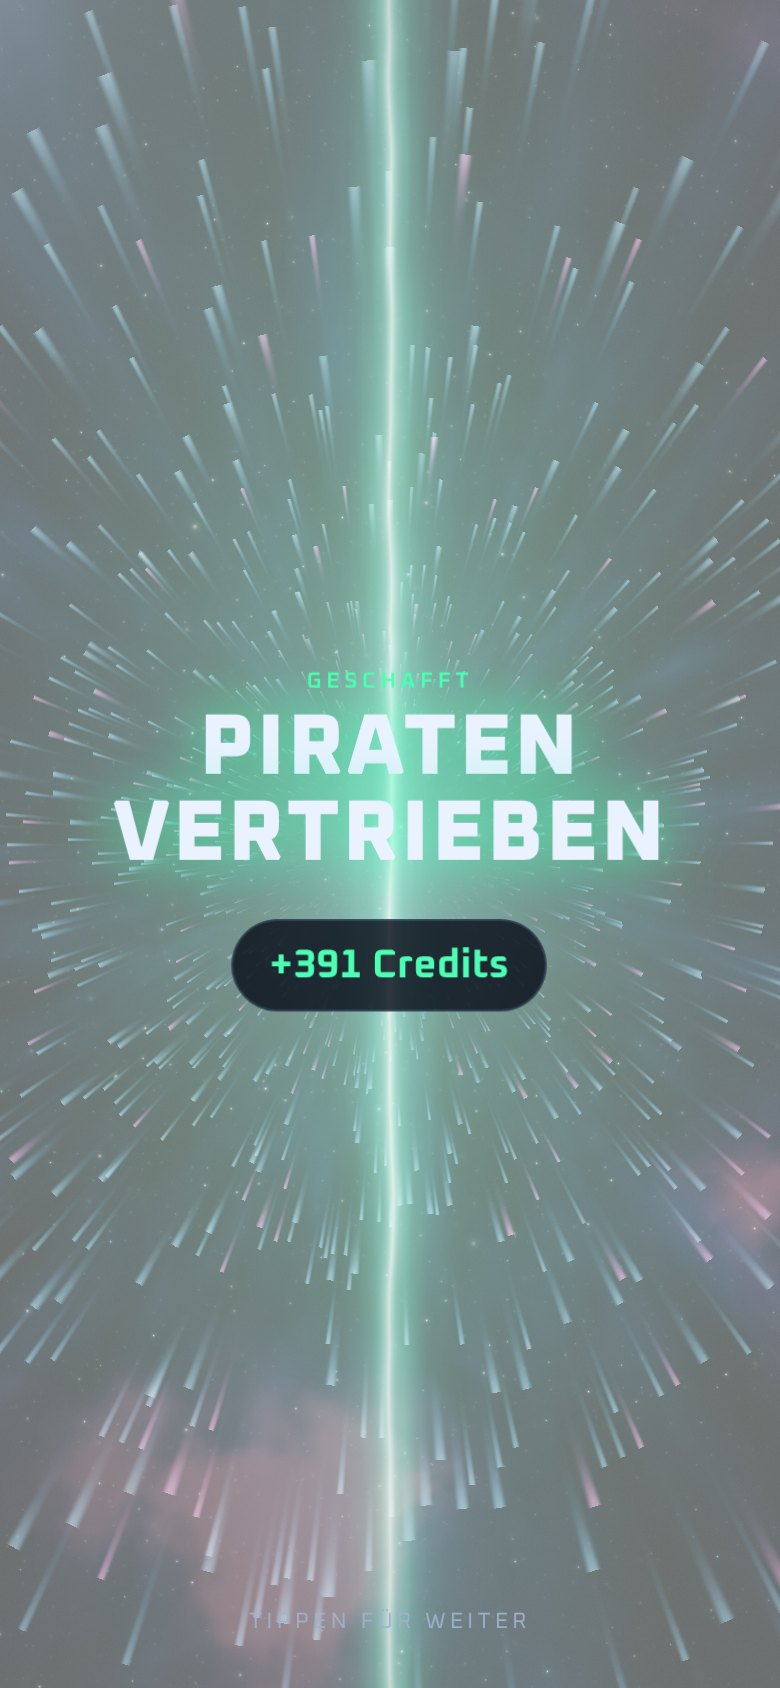
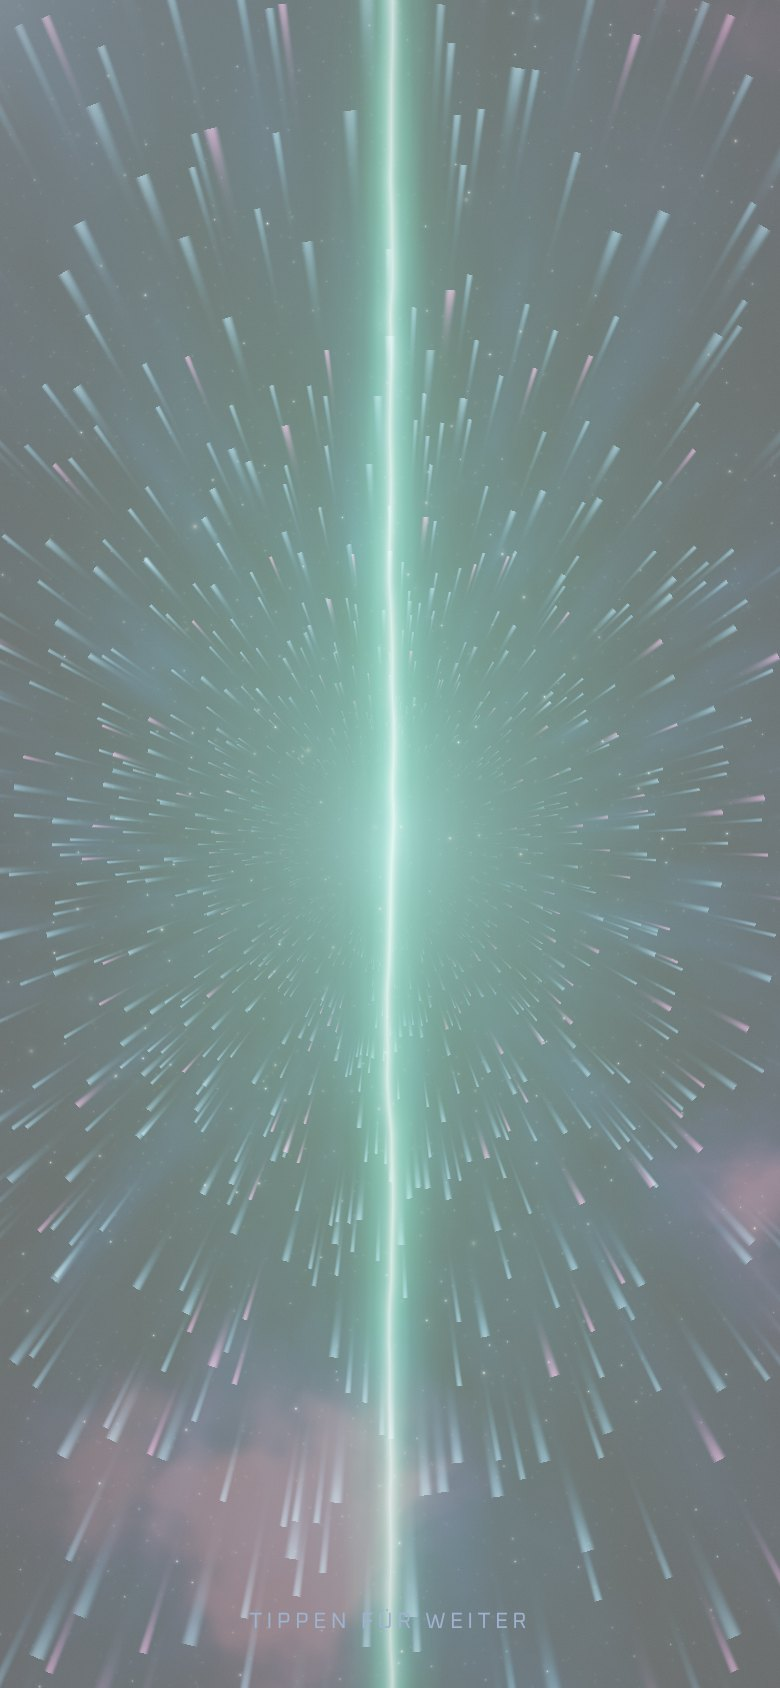
Build in package E: encounter scenes. Fix a wrong stake in the text
- Pirates and customs show the view out of the cockpit, one of two scenes
  per kind, during the decision and the beat before the result
- The fight option said a lost fight costs 40 % of the cargo while the
  rules take 30 %. Both stakes now come from the config
- Docs: delivery status

Claude-Session: https://claude.ai/code/session_01LRkk68pyJcCphAoNdXRYk3

diff --git a/packages/client/src/ui/Travel.tsx b/packages/client/src/ui/Travel.tsx
@@ -1,8 +1,9 @@
-import { FACTIONS, GOOD_BY_ID, quote, STATION_BY_ID, type EncounterChoice, type GoodId } from '@nova/core';
+import { CONFIG, FACTIONS, GOOD_BY_ID, quote, STATION_BY_ID, type EncounterChoice, type GoodId } from '@nova/core';
 import { useEffect, useState } from 'react';
 import { audio } from '../audio/engine.ts';
 import { stage } from '../stage/index.ts';
 import { useApp, type Travel as TravelState } from '../store.ts';
+import { art } from './art.ts';
 import { FACTION_COLOR, num } from './format.ts';
 
 type Phase = 'launch' | 'encounter' | 'resolve' | 'outcome' | 'cruise' | 'arrive';
@@ -18,8 +19,9 @@ const ARRIVE_MS = 3400;
 
 
 const OPTION: Record<EncounterChoice, { label: string; stat?: 'nav' | 'hdl' | 'tec' | 'kmp'; note: (hot: boolean) => string }> = {
-  fight: { label: 'Kämpfen', stat: 'kmp', note: () => 'Sieg bringt Beute. Niederlage kostet 40 % der Fracht' },
-  flee: { label: 'Fliehen', stat: 'nav', note: () => 'Misslingt es, gehen 25 % der Fracht verloren' },
+  // The stakes come from the rules, so the text can never drift from what really happens.
+  fight: { label: 'Kämpfen', stat: 'kmp', note: () => `Sieg bringt Beute. Niederlage kostet ${Math.round(CONFIG.encounter.lossOnLostFight * 100)} % der Fracht` },
+  flee: { label: 'Fliehen', stat: 'nav', note: () => `Misslingt es, gehen ${Math.round(CONFIG.encounter.lossOnFailedFlee * 100)} % der Fracht verloren` },
   pay: { label: 'Tribut zahlen', note: () => 'Sie lassen dich ziehen' },
   submit: { label: 'Kontrollieren lassen', stat: 'tec', note: (hot) => (hot ? 'Wird verbotene Ware gefunden: beschlagnahmt, Busse, Fahndung' : 'Deine Fracht ist hier legal') },
   bribe: { label: 'Bestechen', stat: 'hdl', note: () => 'Geld ist in jedem Fall weg' },
@@ -49,6 +51,11 @@ export function Travel({ travel }: { travel: TravelState }) {
   /** The chance as it was shown when the choice was made: the encounter is gone from the view once it is resolved. */
   const [chosenChance, setChosenChance] = useState(1);
   const [beatOver, setBeatOver] = useState(false);
+  // The picture of this encounter: one of two per kind, fixed for the whole scene.
+  const [scene] = useState(() => {
+    const kind = view.encounter?.kind;
+    return kind ? art('encounters', `${kind}-${1 + (view.stats.jumps % 2)}`) ?? art('encounters', `${kind}-1`) : undefined;
+  });
   const [launchMs] = useState(() => (jumpsThisSession++ >= 3 ? LAUNCH_SHORT_MS : LAUNCH_LONG_MS));
   const dest = STATION_BY_ID.get(travel.to)!;
   const encounter = view.encounter;
@@ -136,6 +143,7 @@ export function Travel({ travel }: { travel: TravelState }) {
 
       {phase === 'encounter' && encounter && (
         <div className={`enc enc--${encounter.kind}`}>
+          {scene && <div className="enc__art"><img src={scene} alt="" draggable={false} /></div>}
           <span className="eyebrow">{encounter.kind === 'pirates' ? 'Angriff' : `Zoll · ${FACTIONS[dest.faction].name}`}</span>
           <h3>{encounter.kind === 'pirates' ? 'Piraten!' : 'Zollkontrolle'}</h3>
           <p>
@@ -166,6 +174,7 @@ export function Travel({ travel }: { travel: TravelState }) {
 
       {phase === 'resolve' && (
         <div className="enc enc--resolve">
+          {scene && <div className="enc__art enc__art--held"><img src={scene} alt="" draggable={false} /></div>}
           <span className="eyebrow">{chosen ? OPTION[chosen].label : ''}</span>
           <div className="enc__beat"><i /><i /><i /></div>
           {chosenChance < 1 && <small className="enc__chance">Chance {Math.round(chosenChance * 100)} %</small>}

diff --git a/packages/client/src/ui/styles.css b/packages/client/src/ui/styles.css
@@ -1863,6 +1863,13 @@ button.lot:active { transform: scale(0.98); }
 
 /* Encounter: the beat between choosing and knowing. Arrival: what the jump brought. */
 .enc--resolve { align-items: center; gap: 18px; text-align: center; }
+/* The view out of the cockpit: what stopped you. */
+.enc__art { position: relative; width: 100%; aspect-ratio: 16 / 10; margin-bottom: 8px; border-radius: 18px; overflow: hidden; border: 1px solid color-mix(in srgb, var(--tone) 45%, var(--stroke)); box-shadow: 0 18px 40px -18px #000, 0 0 30px -12px var(--tone); }
+.enc__art img { width: 100%; height: 100%; object-fit: cover; animation: push-in 7s ease-out both; }
+.enc__art::after { content: ''; position: absolute; inset: 0; background: linear-gradient(180deg, transparent 60%, rgba(2, 4, 10, 0.55)); }
+.enc__art--held img { animation: none; transform: scale(1.02); }
+@keyframes push-in { from { transform: scale(1.12); } to { transform: scale(1); } }
+@media (prefers-reduced-motion: reduce) { .enc__art img { animation: none; } }
 .enc--resolve .eyebrow { font-size: 15px; letter-spacing: 0.3em; color: var(--ink); }
 .enc__beat { display: flex; gap: 12px; }
 .enc__beat i { width: 14px; height: 14px; border-radius: 50%; background: var(--ink); animation: beat 0.66s ease-in-out infinite; }

diff --git a/docs/redesign/03-roadmap.md b/docs/redesign/03-roadmap.md
@@ -39,7 +39,7 @@ Arbeitstitel: **PROJEKT NOVA**. Grundlage: Architektur (Dokument 01) und Mechani
 | Mobile-Hülle (Phase 5): Android-Projekt baut zu einer installierbaren App, iOS-Projekt angelegt, Icon und Startbild, Haptik, lokale Erinnerungen mit Opt-in und Nachtruhe, Zurück-Taste, installierbare Web-App. Details in Dokument 05 | fertig bis auf Gerätetest | App hier gebaut und ihr Inhalt geprüft, 7 Tests, Durchlauf im Browser. Nicht auf einem Gerät gestartet |
 | Spielstand übersteht Regeländerungen: Ältere Stände werden übernommen, neue Systeme starten leer | fertig | Tests und Durchlauf mit einem alten Spielstand |
 | Design-Runde 1 nach zwei unabhängigen Prüfungen (Art Direction, UX und Fairness): Lesbarkeit, Farbrollen, Vollbild-Momente, gestufte Verkaufs-Rückmeldung, Zwei-Tipp-Bestätigung für Quanten, Schliessen-Knopf in jedem Fenster, Einstieg für neue Spieler. Details in Dokument 07 | fertig | Eigener Durchlauf mit 12 Prüfungen, dabei einen Fehler gefunden und behoben |
-| Grafik-Auftrag: Stil, Formate, Dateinamen und Prompts für 127 Bilder in 11 Paketen. Dokument 06 | Pakete A bis D und J geliefert und eingebaut (58 Bilder): 6 Schiffe, 4 Container, 6 Saison-Karten, 19 Elite-Karten, 20 Archetypen, 3 Währungen | Import-Werkzeug prüft Name, Format und Hintergrund. Sichtprüfung jedes Bilds im Spiel |
+| Grafik-Auftrag: Stil, Formate, Dateinamen und Prompts für 127 Bilder in 11 Paketen. Dokument 06 | Pakete A bis E und J geliefert und eingebaut (62 Bilder): 6 Schiffe, 4 Container, 6 Saison-Karten, 19 Elite-Karten, 4 Begegnungen, 20 Archetypen, 3 Währungen | Import-Werkzeug prüft Name, Format und Hintergrund. Sichtprüfung jedes Bilds im Spiel |
 | Container in der Enthüllung: erscheint, wackelt, bricht auf. Schiffe als Bilder mit Lackierung als Farbschicht | fertig | Durchläufe mit Screenshots |
 | Begegnungen mit Spannungsmoment, kürzerer und überspringbarer Warp, Ankunft mit Kurierpost, Serie und Frachtwert. Währungen als Bilder im Charter | fertig | Durchlauf prüft, dass das Ergebnis erst nach dem Spannungsmoment erscheint |
 | Gemalte Kartenporträts mit Rückfall auf prozedurale Avatare | fertig, alle 10 Legenden und Singularitäten | Screenshots, siehe Dokument 04 |
@@ -102,7 +102,7 @@ Die Bots spielen diszipliniert und holen jeden Tag alles ab. Echte Spieler lasse
 - **Geld im Spätspiel.** Die Werft bindet das Geld bis etwa Tag 50, Prestige setzt es zurück. Nach Rang 5 (rund 230 Tage) fehlt wieder ein Ziel.
 - **Vermögen der Bots täuscht.** Sie sparen stur auf das nächste Schiff und kaufen dann nur zwei Container pro Tag. Echte Spieler verteilen ihr Geld anders.
 - **Schiffe fliegen noch nicht sichtbar.** Die sechs Schiffe sind als Bilder in Werft und Profil, aber weder auf der Station noch in der Warp-Szene zu sehen.
-- **Kartenkunst.** 35 Karten haben ein eigenes Porträt (10 Legenden, 19 Elite, 6 Saison-Karten), die 100 seltenen und Standard-Karten teilen sich 20 Archetypen. Es fehlt eine Elite-Karte (`g094`). Offene Grafik-Pakete in Dokument 06: E bis I.
+- **Kartenkunst.** 35 Karten haben ein eigenes Porträt (10 Legenden, 19 Elite, 6 Saison-Karten), die 100 seltenen und Standard-Karten teilen sich 20 Archetypen. Es fehlt eine Elite-Karte (`g094`). Offene Grafik-Pakete in Dokument 06: F bis I.
 - **Tages- und Wochengrenze.** Mitternacht und Montag nach mitteleuropäischer Winterzeit, ohne Sommerzeit und ohne Zeitzone des Spielers.
 - **Erinnerungen sind lokal.** Sie werden auf dem Gerät geplant, wenn die App in den Hintergrund geht. Was erst danach passiert (zum Beispiel ein überbotenes Gebot), kann die App nicht melden. Dafür braucht es einen Server.
 - **Gerätetest steht aus.** Die Android-App ist gebaut, aber nicht auf einem Gerät gelaufen. iOS braucht einen Mac.

diff --git a/docs/redesign/06-grafik-prompts.md b/docs/redesign/06-grafik-prompts.md
@@ -15,7 +15,7 @@ Was das Spiel schon hat: gemalte Porträts für die zehn höchsten Karten (`c21`
 5. In Originalgrösse herunterladen und **exakt nach Tabelle benennen** (zum Beispiel `g008.png`, `leviathan.png`).
 6. Dateien in dieser Sitzung hochladen oder ins Repository nach `art-inbox/<Paket>/` legen. Zuschneiden, Umwandeln in WebP und Einbauen übernehme ich. Jedes Bild hat einen Rückfall: Fehlt eine Datei, zeigt das Spiel das bisherige Bild.
 
-**Stand der Lieferung (26.11.2026):** Pakete A, B, C, D und J sind geliefert und eingebaut, 58 von 59 Bildern. Offen sind E, F, G, H und I. Zurückgehalten: `g094.png`, weil die weisse Rüstung stark an eine bekannte Film-Rüstung erinnert. Der Prompt in Paket D ist angepasst, bitte dieses eine Bild neu erzeugen.
+**Stand der Lieferung (26.11.2026):** Pakete A, B, C, D, E und J sind geliefert und eingebaut, 62 von 63 Bildern. Offen sind F, G, H und I. Zurückgehalten: `g094.png`, weil die weisse Rüstung stark an eine bekannte Film-Rüstung erinnert. Der Prompt in Paket D ist angepasst, bitte dieses eine Bild neu erzeugen.
 
 **Reihenfolge und Umfang**
 
